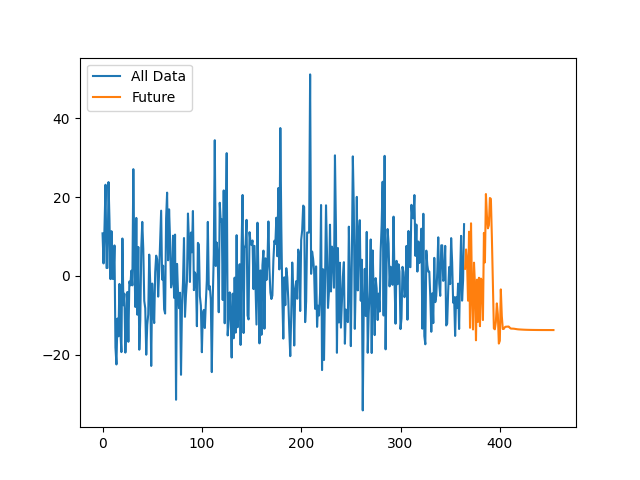
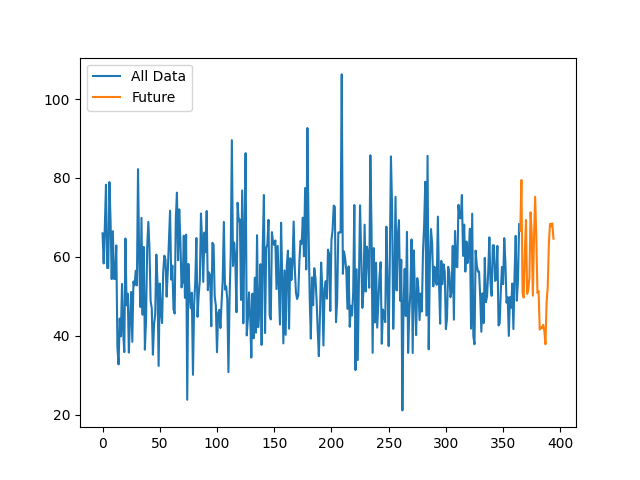
Implementation of Prediction and looking at the past to future trend (eye bolling), for actuals and not features

diff --git a/ATN_RNN/module/RNN.py b/ATN_RNN/module/RNN.py
@@ -59,7 +59,8 @@ class RNN(nn.Module):
 
         # Training set
         self.train_timesteps = int(self.X.shape[0] * 0.7)
-        self.y = self.y - np.mean(self.y[:self.train_timesteps])
+        self.mean_train = np.mean(self.y[:self.train_timesteps])
+        self.y = self.y - self.mean_train
         self.input_size = self.X.shape[1]
 
     def train(self):
@@ -216,7 +217,9 @@ class RNN(nn.Module):
 
         predictions = []
 
-        for _ in range(90):  # For each day in the next 30 days
+
+
+        for _ in range(30):  # For each day in the next 30 days
             # Prepare the input for prediction
             X_pred = torch.from_numpy(X_last).type(torch.FloatTensor).to(self.device)
             y_hist_pred = torch.from_numpy(y_last).type(torch.FloatTensor).to(self.device)
@@ -231,6 +234,9 @@ class RNN(nn.Module):
             y_last = np.append(y_last[1:], next_day_pred)
 
             # Store the prediction
-            predictions.append(next_day_pred)
+            next_day_pred_final = next_day_pred + self.mean_train
+            predictions.append(next_day_pred_final)
 
+
+        self.y = self.y + self.mean_train
         return predictions
